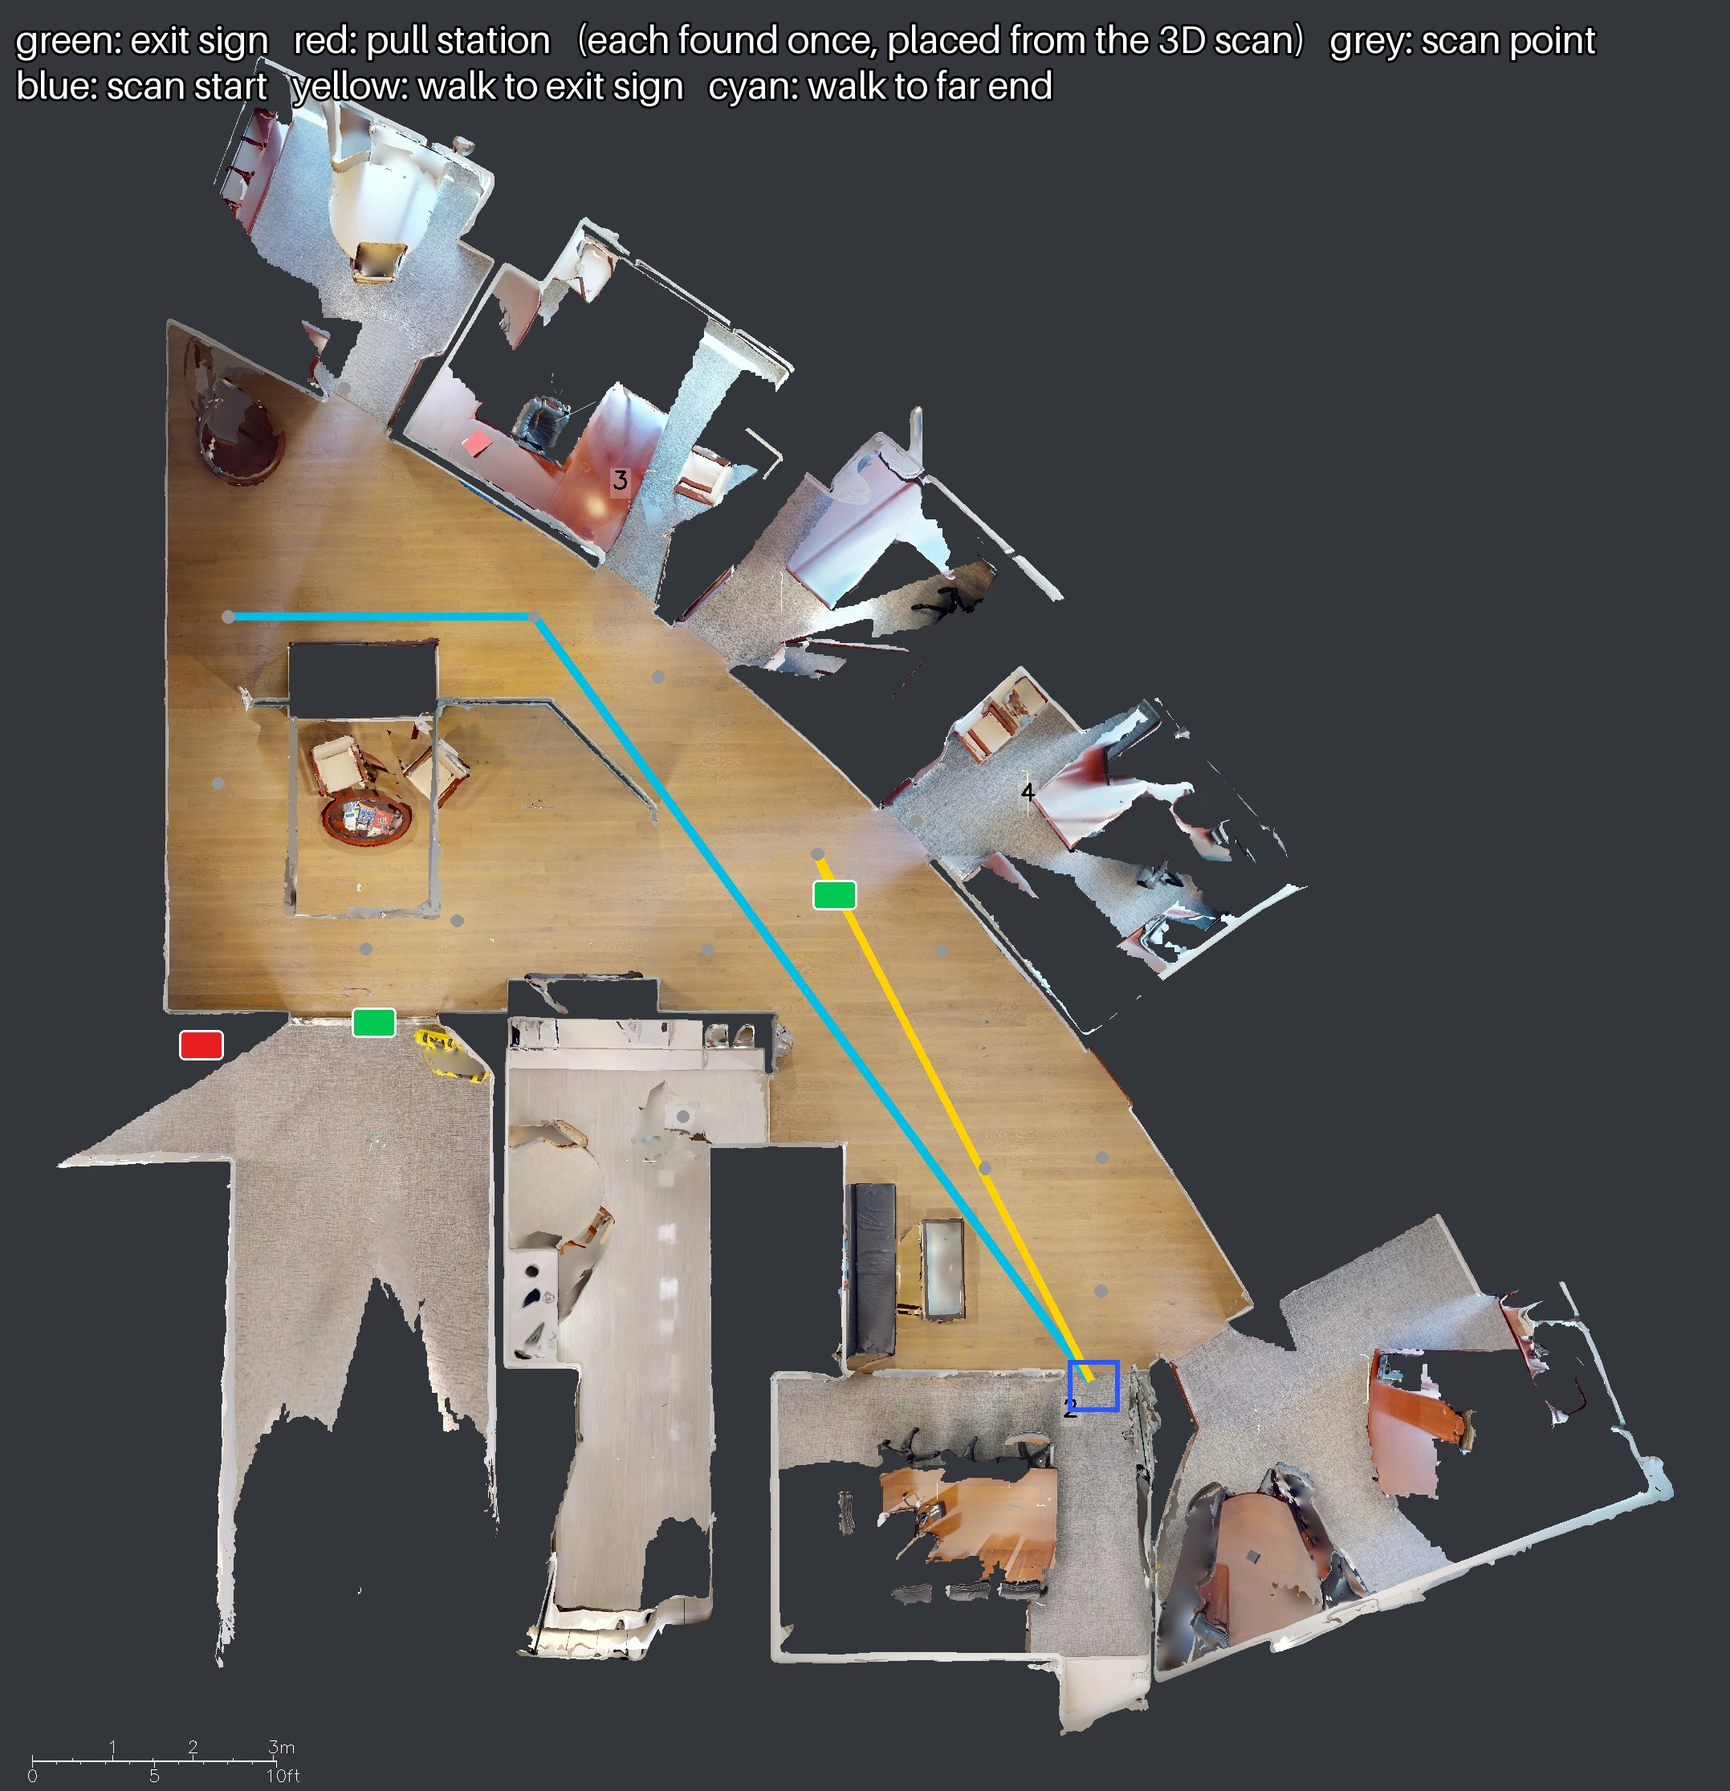
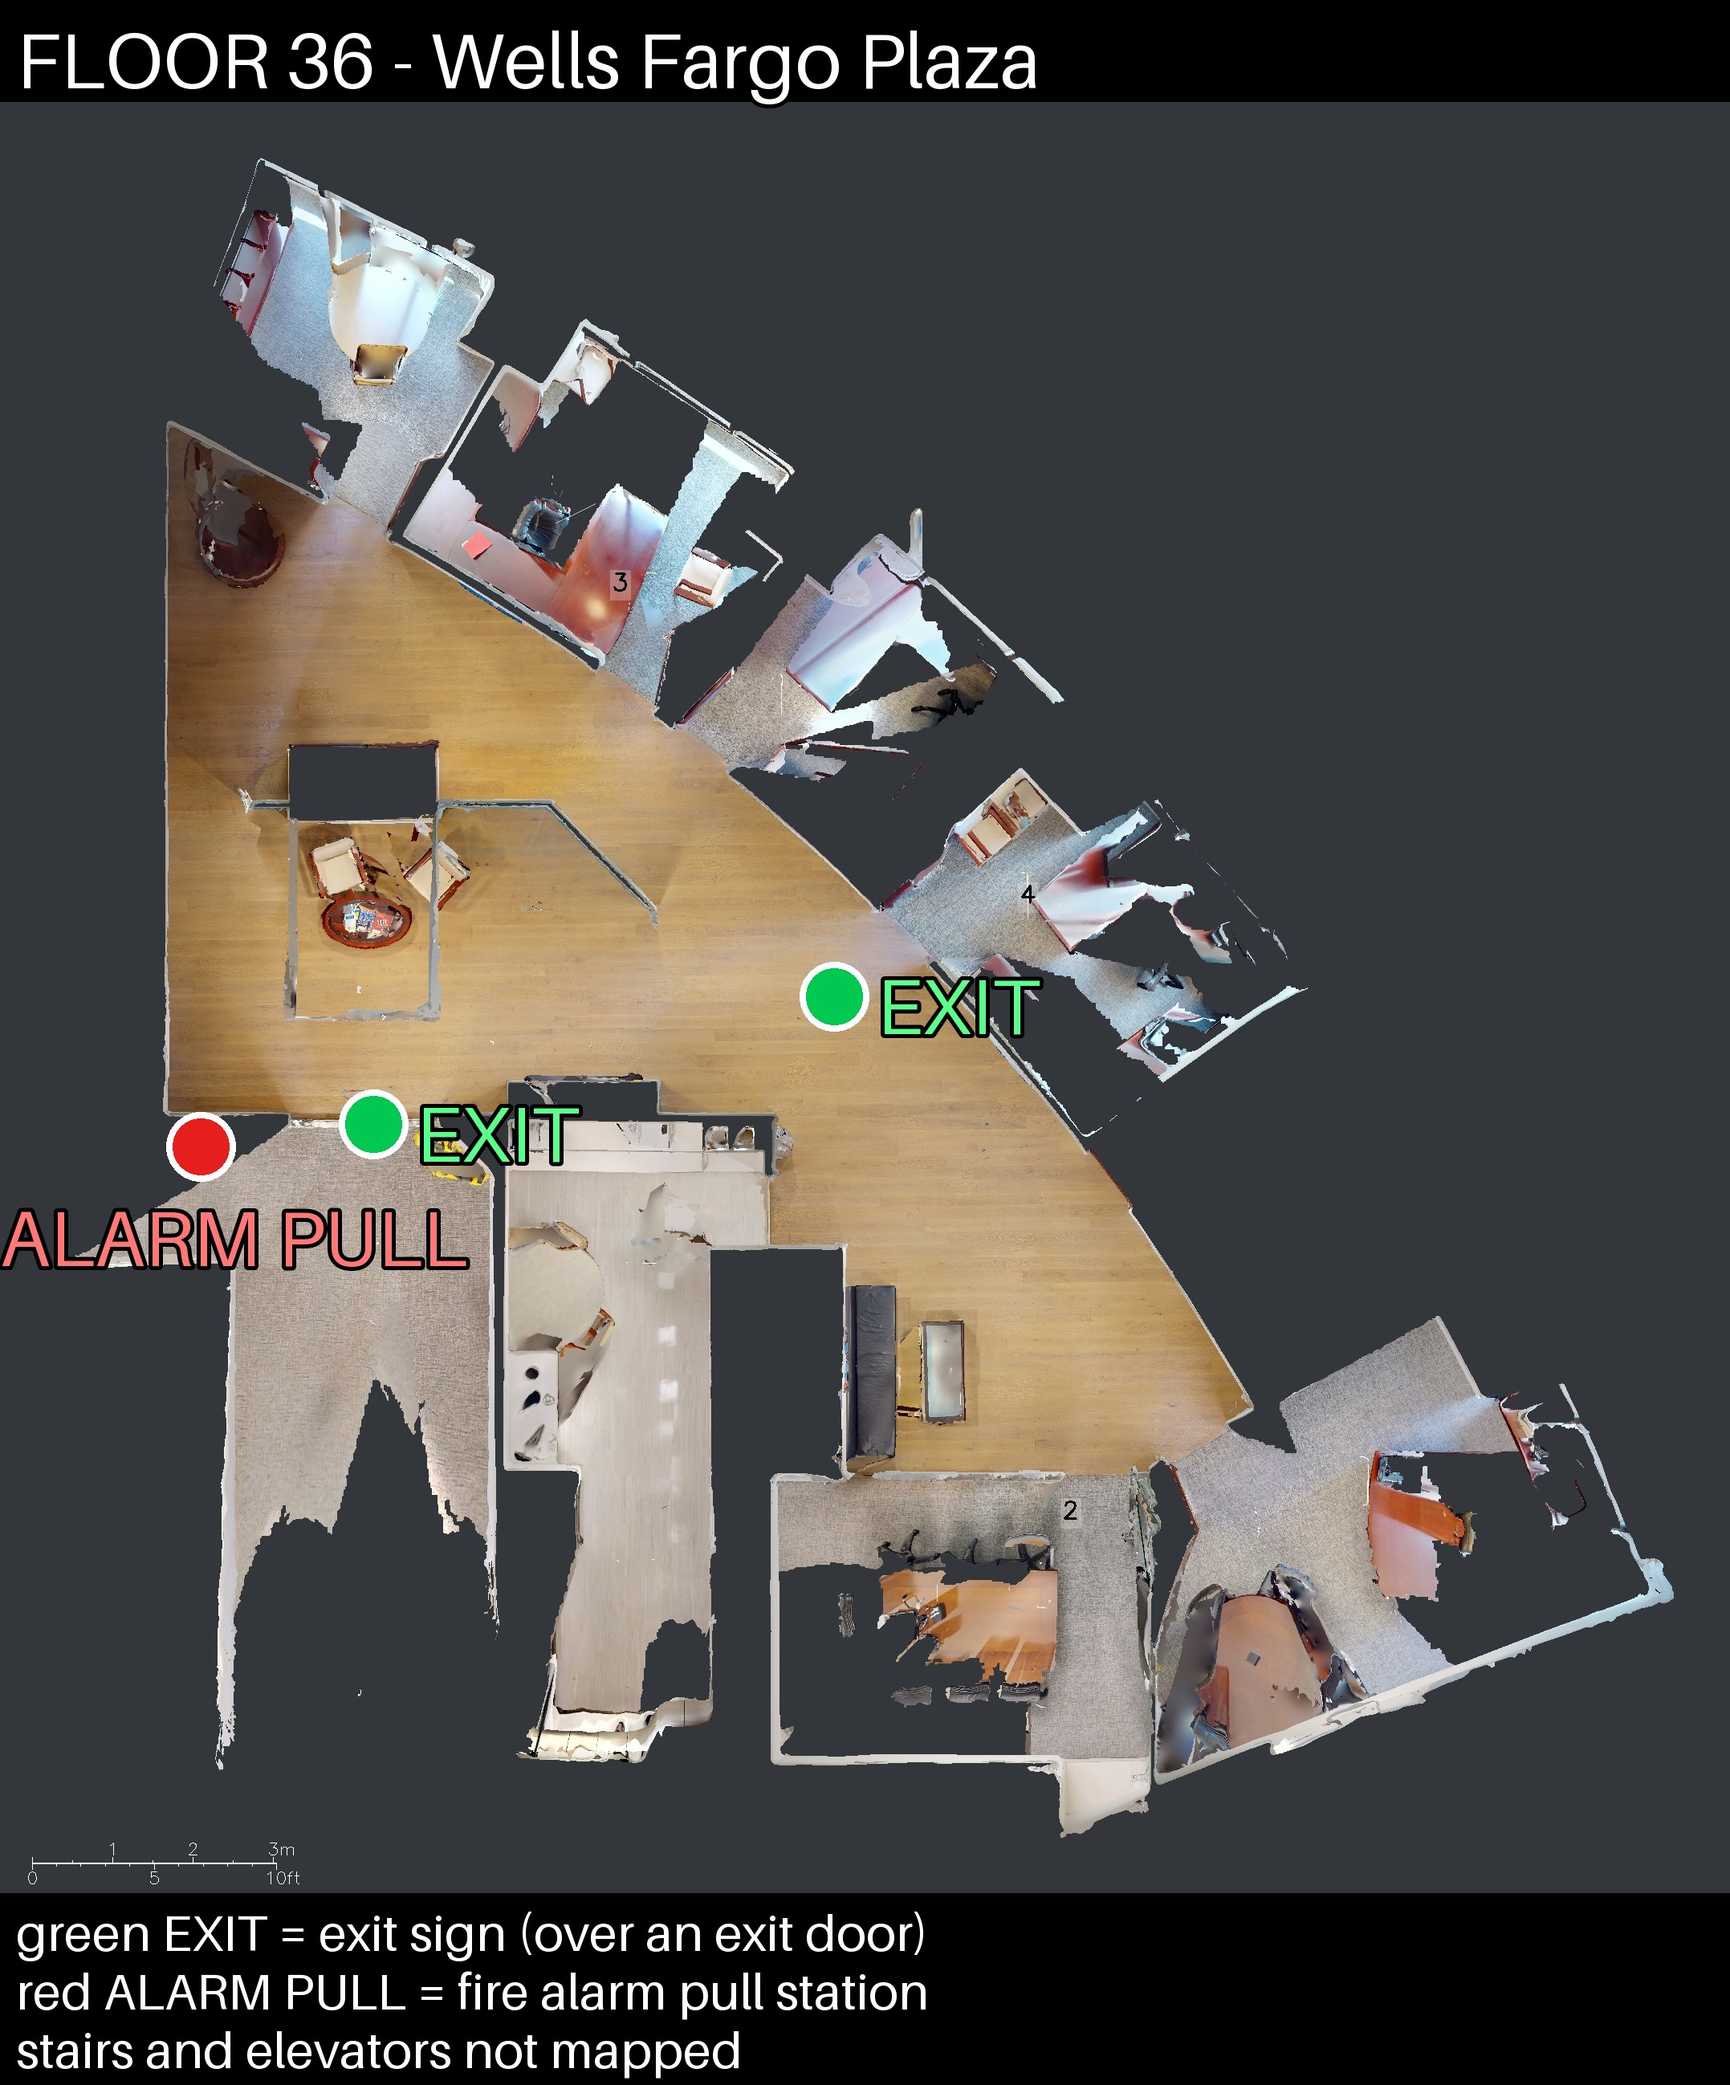
Floor map a firefighter can read: labelled EXIT / ALARM PULL markers, floor title, key
mark_plan drops the scan points, scan start and walk lines. Each located exit sign
(green) and fire alarm pull station (red) is labelled on the map in large text, with a
title band ('FLOOR 36 - Wells Fargo Plaza') above the map and a key below it, so the
map itself is never covered. Text is sized to read at ~400 px wide; a label that has no
free spot is skipped (the colour and key still say what it is). 14 plans regenerated.

diff --git a/primesight/briefing.py b/primesight/briefing.py
@@ -57,7 +57,8 @@ def gather(pid, floor):
             from .vision import near_exit
             vision["route"] = soft("walk route", matterport.route, scan["sweeps"], scan["sweeps"][0]["id"], near_exit(v["sweeps"]))
         if plan_img and frame:
-            plan_img = soft("floorplan markup", mark_plan, plan_img, frame, v["sweeps"], vision.get("route")) or plan_img
+            plan_img = soft("floorplan markup", mark_plan, plan_img, frame, v["sweeps"],
+                            f"FLOOR {scan['floor']} - {b['name'] or b['address'].split(',')[0]}") or plan_img
 
     hyd, roof, stage, w, aerial = f_hyd.result() or [], f_roof.result() or {}, f_stage.result() or [], f_wind.result(), f_ortho.result()
     if aerial:  # label the plain aerial for the crew; the plain one stays on disk
@@ -78,38 +79,49 @@ def plan_px(xy, frame, height):
     return (xy[0] - ox) * res, height - (xy[1] - oy) * res
 
 
-def mark_plan(path, frame, sweeps, route=None):
-    """Draw each located sign once where it is (SAM 3 sightings merged across scan points): green exit sign, red pull
-    station; scan points as small grey dots. With a route: blue square at the scan start, yellow walk to the nearest
-    exit sign (over scan points, then straight to the sign), cyan walk to the far end."""
-    import math
+MAP_KEY = ("green EXIT = exit sign (over an exit door)", "red ALARM PULL = fire alarm pull station",
+           "stairs and elevators not mapped")
+
+
+def mark_plan(path, frame, sweeps, title=""):
+    """Floor map for a crew's phone: each exit sign and fire alarm pull station found in the 3D scan, drawn once where it
+    is and labelled on the map, a title band (e.g. 'FLOOR 36 - Wells Fargo Plaza') and a key. Sized to read at ~400 px."""
     from PIL import Image, ImageDraw, ImageFont
     from .vision import locate
-    im = Image.open(path).convert("RGB")
-    d, r = ImageDraw.Draw(im), max(10, im.width // 90)
-    px = lambda p: plan_px(p, frame, im.height)
+    plan = Image.open(path).convert("RGB")
+    W, H = plan.size
+    big, small = ImageFont.load_default(size=max(22, W // 22)), ImageFont.load_default(size=max(18, W // 34))
+    r, pad = max(14, W // 50), max(6, W // 200)
     signs = locate(sweeps)
-    exits = [g["xy"] for g in signs if g["label"] == "exit sign"]
-    for key, color in (("far", (0, 190, 230)), ("exit", (255, 210, 0))):
-        if route and route.get(key) and len(route[key]["xy"]) > 1:
-            pts = route[key]["xy"] + ([min(exits, key=lambda e: math.dist(e, route[key]["xy"][-1]))] if key == "exit" and exits else [])
-            d.line([px(p) for p in pts], fill=color, width=max(6, r // 2), joint="curve")
-    for s in sweeps:
-        x, y = px(s["xy"])
-        d.ellipse((x - r / 3, y - r / 3, x + r / 3, y + r / 3), fill=(150, 150, 150))
+    lines = MAP_KEY if signs else ("no exit signs or alarm pulls found in the 3D scan",) + MAP_KEY[2:]
+    band, kh = big.size + 3 * pad, len(lines) * (small.size + pad) + 2 * pad
+    im = Image.new("RGB", (W, band + H + kh), (0, 0, 0))  # title above and key below the map, never over it
+    im.paste(plan, (0, band))
+    d = ImageDraw.Draw(im)
+    txt = lambda xy, s, f, fill="white": d.text(xy, s, font=f, fill=fill, stroke_width=max(3, W // 400), stroke_fill="black")
+    at = lambda g: (plan_px(g["xy"], frame, H)[0], band + plan_px(g["xy"], frame, H)[1])
+    taken = [at(g) for g in signs]
+    taken = [(x - r, y - r, x + r, y + r) for x, y in taken]  # markers, then labels: nothing is written over them
+
+    def free(box):
+        return box[0] >= 0 and box[2] <= W and box[1] >= band and box[3] <= band + H and \
+            not any(box[0] < b[2] and b[0] < box[2] and box[1] < b[3] and b[1] < box[3] for b in taken)
+
     for g in signs:
-        x, y = px(g["xy"])
-        color = (0, 200, 80) if g["label"] == "exit sign" else (230, 30, 30)
-        d.rounded_rectangle((x - 1.2 * r, y - 0.8 * r, x + 1.2 * r, y + 0.8 * r), radius=r // 3, fill=color, outline="white", width=3)
-    if route:
-        x, y = px(sweeps[0]["xy"])
-        d.rectangle((x - 1.4 * r, y - 1.4 * r, x + 1.4 * r, y + 1.4 * r), outline=(40, 90, 255), width=6)
-    font = ImageFont.load_default(size=max(18, im.width // 45))
-    d.text((20, 20), "green: exit sign   red: pull station   (each found once, placed from the 3D scan)   grey: scan point",
-           fill="white", font=font, stroke_width=3, stroke_fill="black")
-    if route:
-        d.text((20, 30 + font.size), "blue: scan start   yellow: walk to exit sign   cyan: walk to far end", fill="white",
-               font=font, stroke_width=3, stroke_fill="black")
+        x, y = at(g)
+        exit_ = g["label"] == "exit sign"
+        d.ellipse((x - r, y - r, x + r, y + r), fill=(0, 200, 80) if exit_ else (230, 30, 30), outline="white", width=max(3, r // 5))
+        word = "EXIT" if exit_ else "ALARM PULL"
+        tw, th = d.textlength(word, font=big), big.size
+        cx = min(max(0, x - tw / 2), W - tw)  # centred over/under the marker, kept inside the image
+        spot = next((p for p in ((x + r + pad, y - th / 2), (x - r - pad - tw, y - th / 2), (cx, y - r - pad - th), (cx, y + r + pad))
+                     if free((p[0], p[1], p[0] + tw, p[1] + th))), None)
+        if spot:  # crowded: no word, the colour and the key still say what it is
+            taken.append((spot[0], spot[1], spot[0] + tw, spot[1] + th))
+            txt(spot, word, big, fill=(90, 255, 140) if exit_ else (255, 120, 120))
+    txt((2 * pad, 1.5 * pad), (title or "FLOOR MAP")[:48], big)
+    for i, s in enumerate(lines):
+        txt((2 * pad, band + H + pad + i * (small.size + pad)), s, small)
     out = path.replace("_plan.jpg", "_plan_marked.jpg")
     im.save(out, quality=88)
     return out
